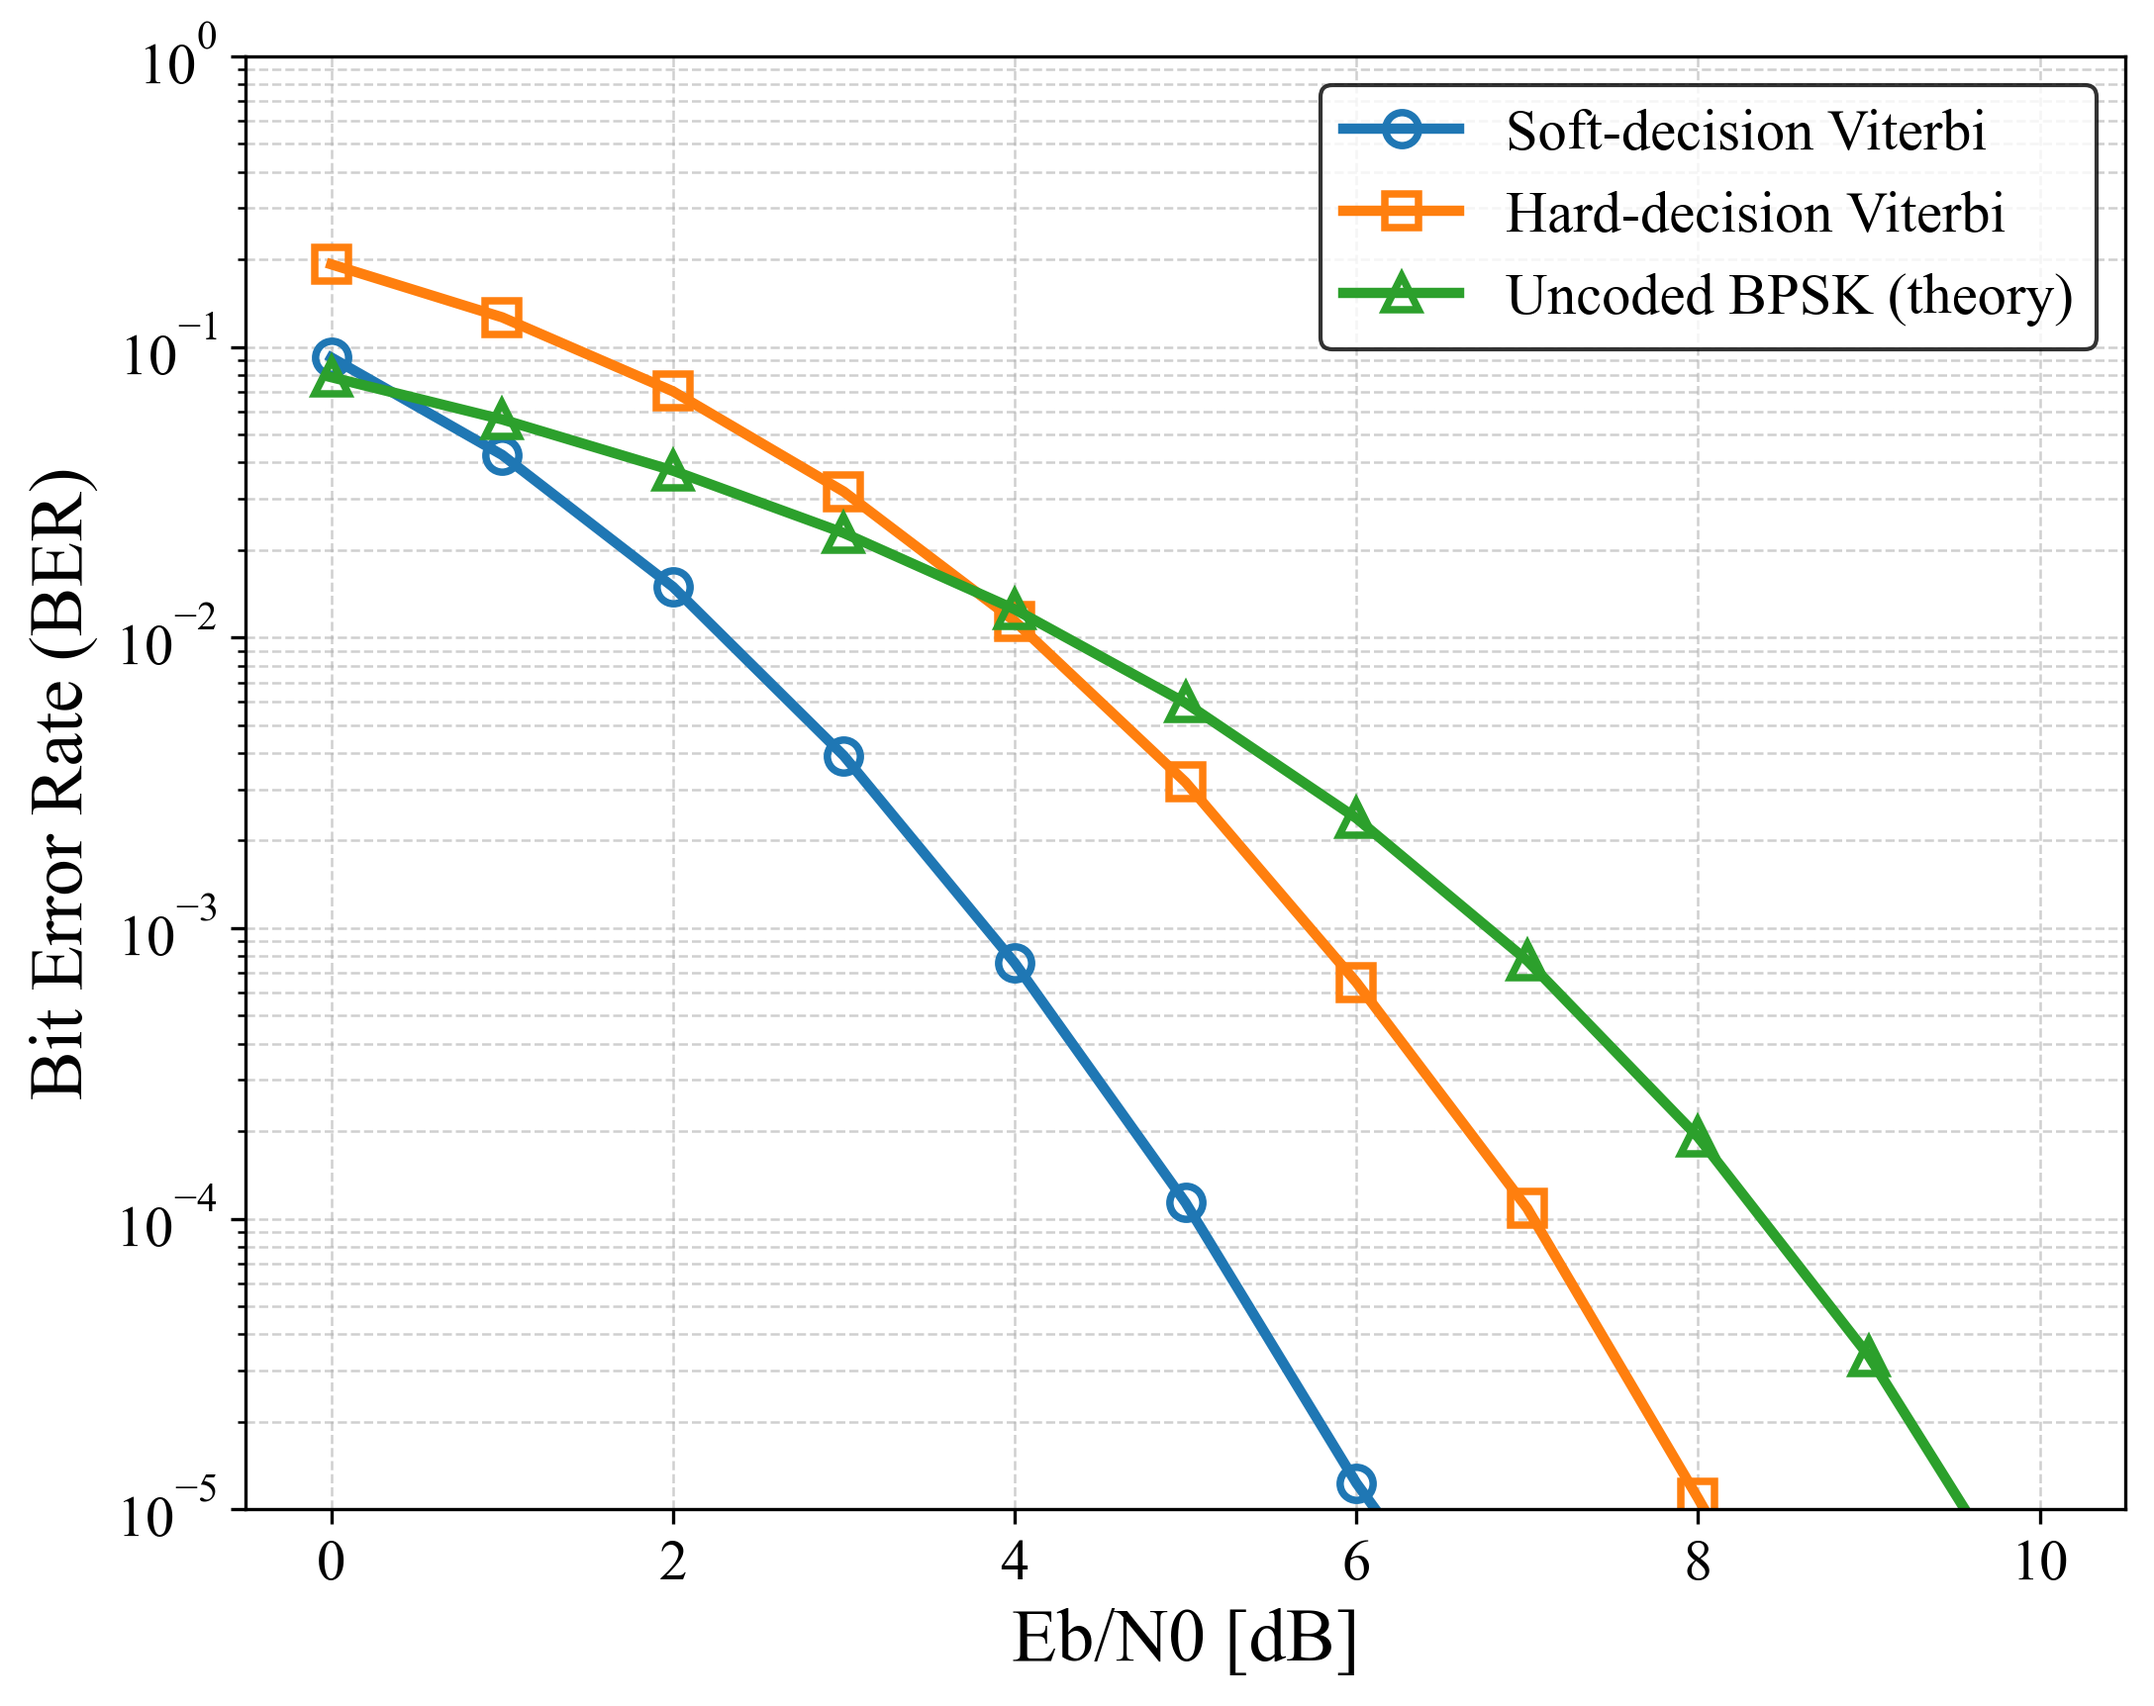
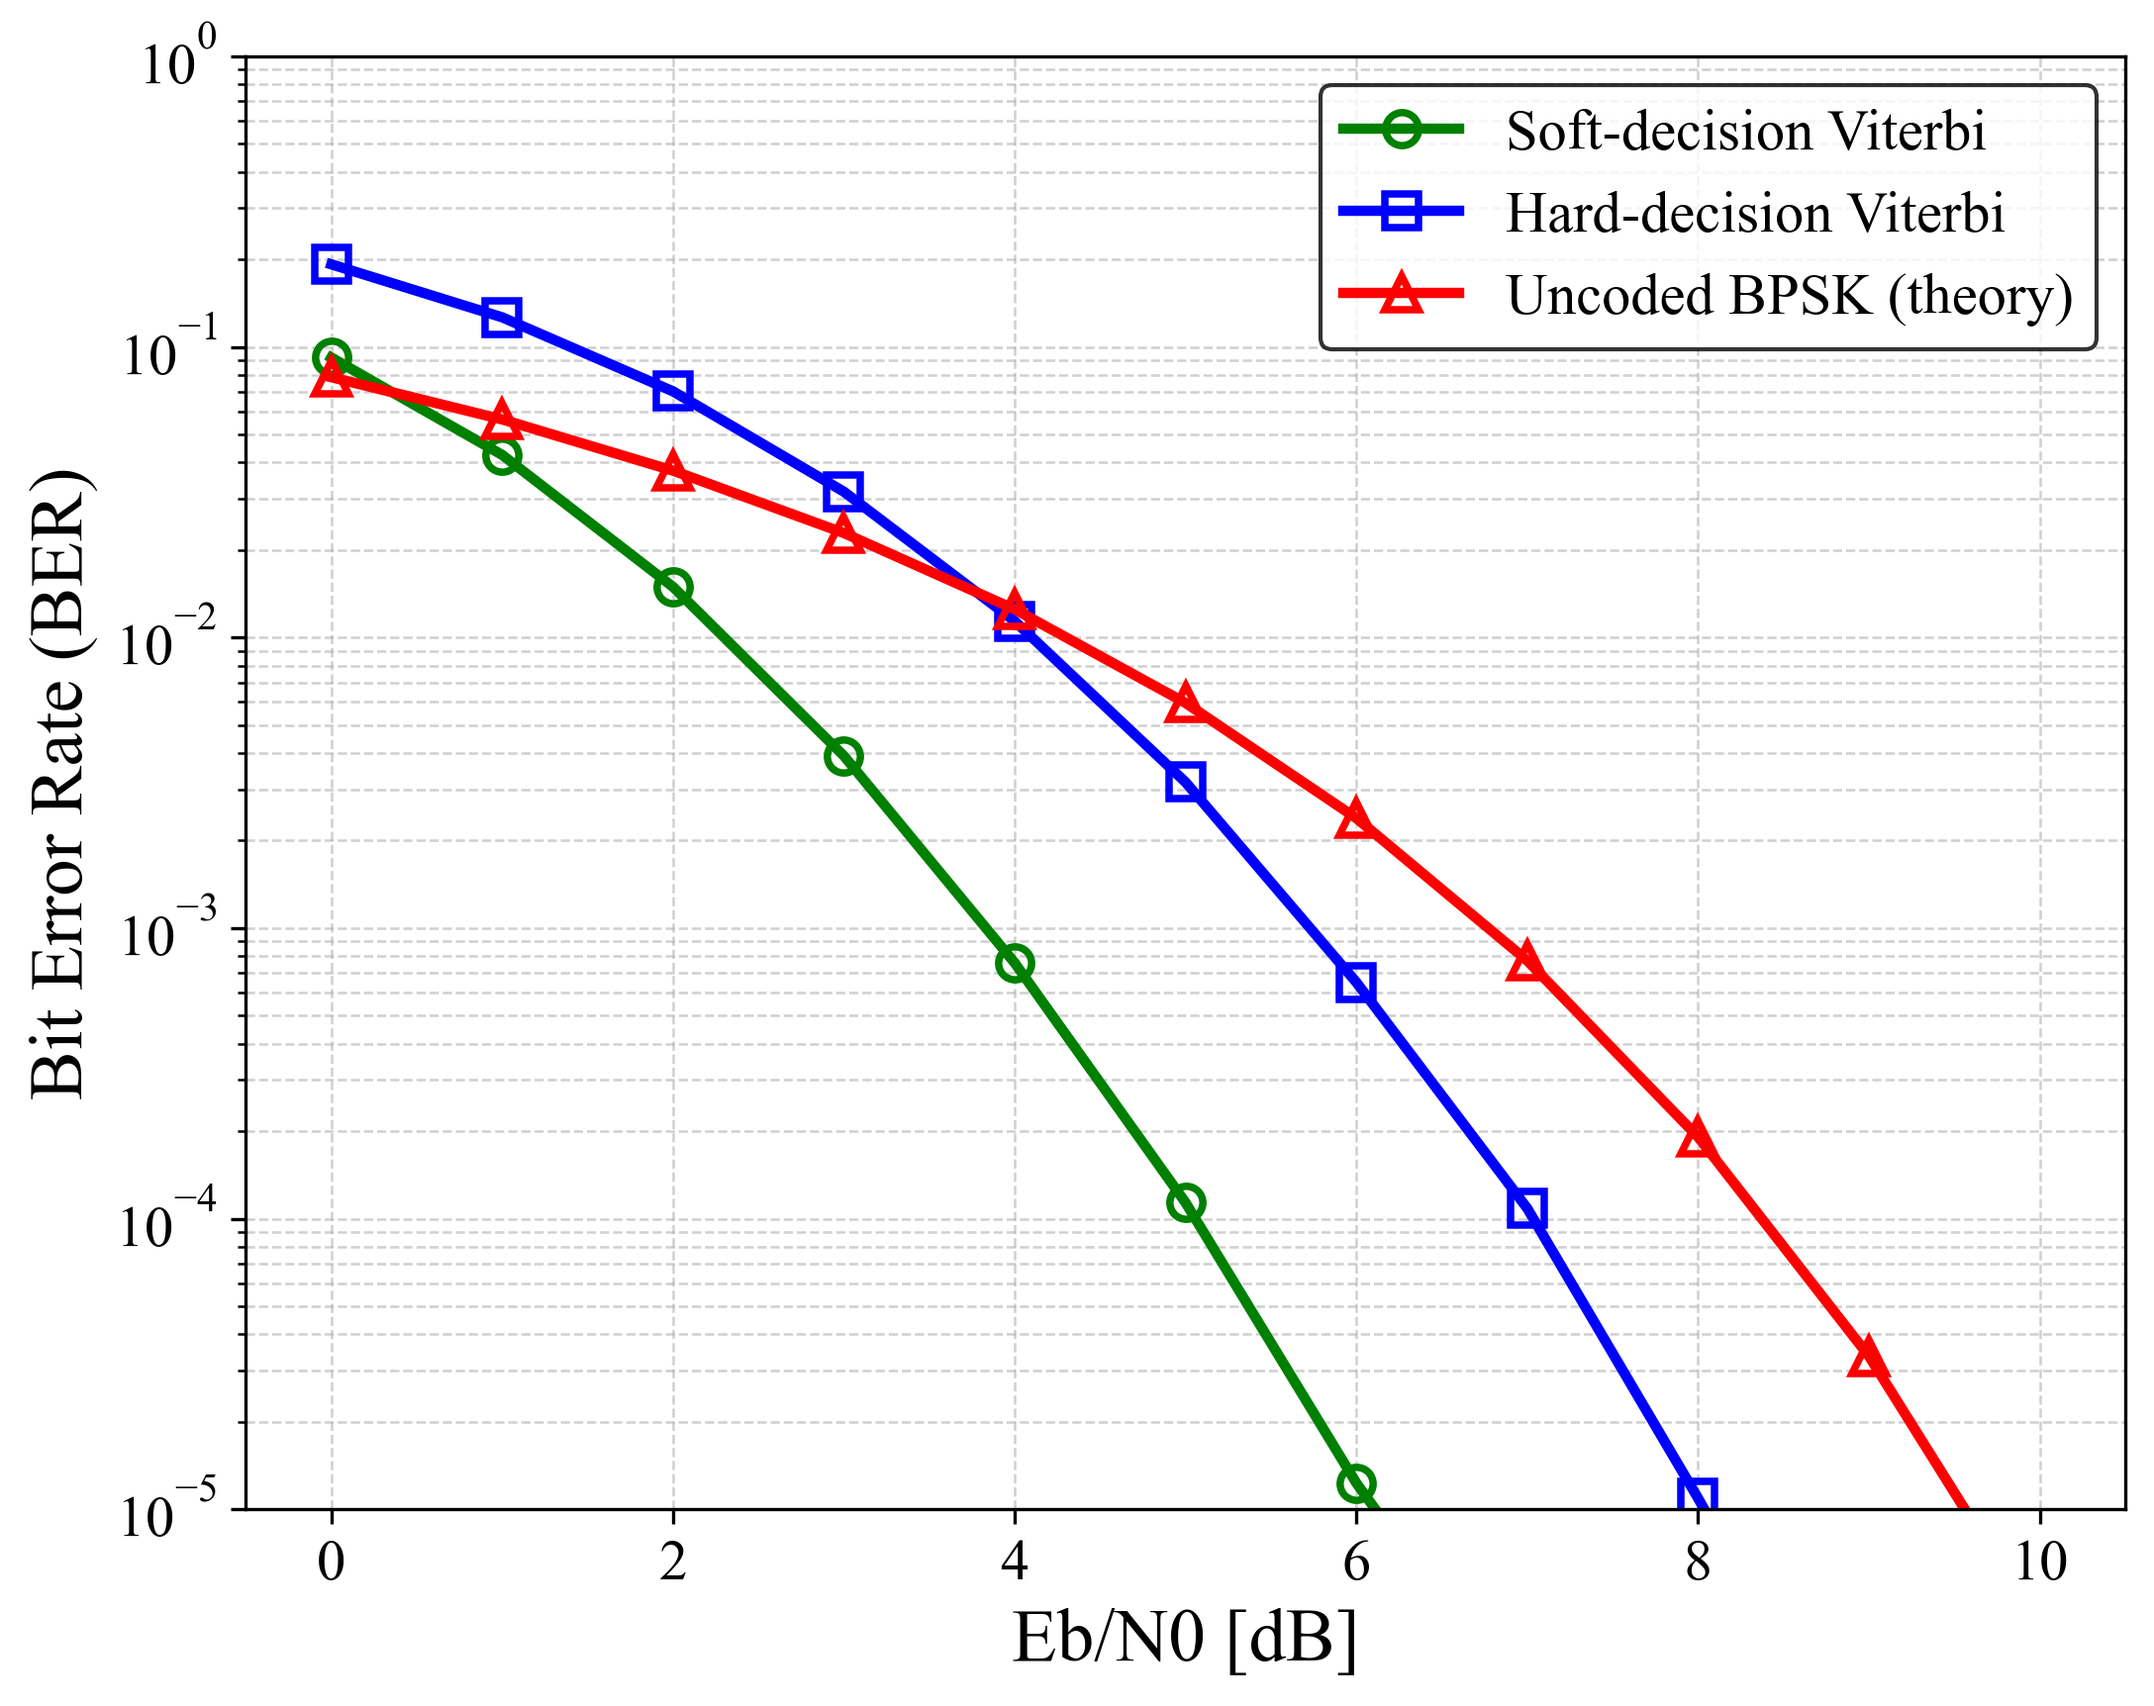
[v0.2.3] グラフの色の変更

diff --git a/mains/plot_ber.py b/mains/plot_ber.py
@@ -38,7 +38,7 @@ ber_bpsk = df["BER_bpsk"]
 # =============================================================================
 plt.figure(figsize=(7.5, 6))
 
-# --- Soft-decision Viterbi ---
+# --- Soft-decision Viterbi --- (青)
 plt.semilogy(
     EbN0,
     ber_soft,
@@ -47,10 +47,11 @@ plt.semilogy(
     markerfacecolor="none",
     markeredgewidth=1.8,
     linewidth=2.5,
+    color="g",
     label="Soft-decision Viterbi",
 )
 
-# --- Hard-decision Viterbi ---
+# --- Hard-decision Viterbi --- (緑)
 plt.semilogy(
     EbN0,
     ber_hard,
@@ -59,10 +60,11 @@ plt.semilogy(
     markerfacecolor="none",
     markeredgewidth=1.8,
     linewidth=2.5,
+    color="b",
     label="Hard-decision Viterbi",
 )
 
-# --- Uncoded BPSK theoretical BER ---
+# --- Uncoded BPSK theoretical BER --- (赤)
 plt.semilogy(
     EbN0,
     ber_bpsk,
@@ -71,6 +73,7 @@ plt.semilogy(
     markerfacecolor="none",
     markeredgewidth=1.8,
     linewidth=2.5,
+    color="r",
     label="Uncoded BPSK (theory)",
 )
 

diff --git a/include/version.h b/include/version.h
@@ -3,8 +3,8 @@
 
 #define NSC_VERSION_MAJOR 0
 #define NSC_VERSION_MINOR 2
-#define NSC_VERSION_PATCH 2
+#define NSC_VERSION_PATCH 3
 
-#define NSC_VERSION "0.2.2"
+#define NSC_VERSION "0.2.3"
 
 #endif
